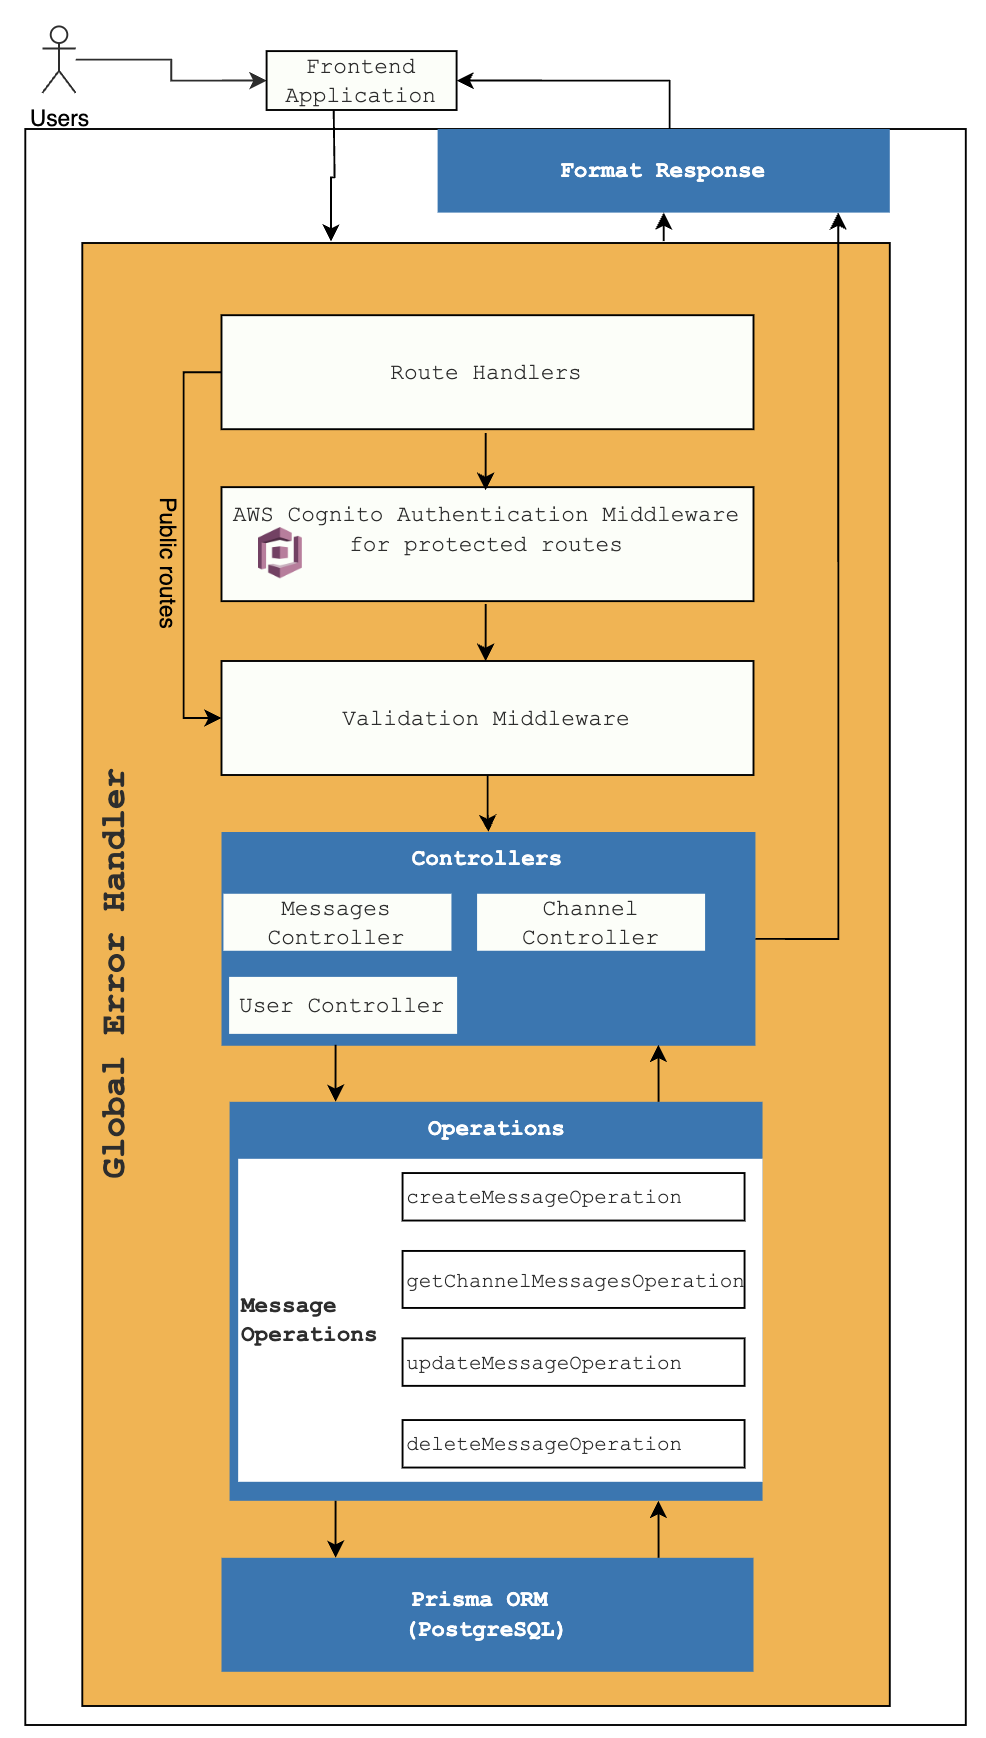
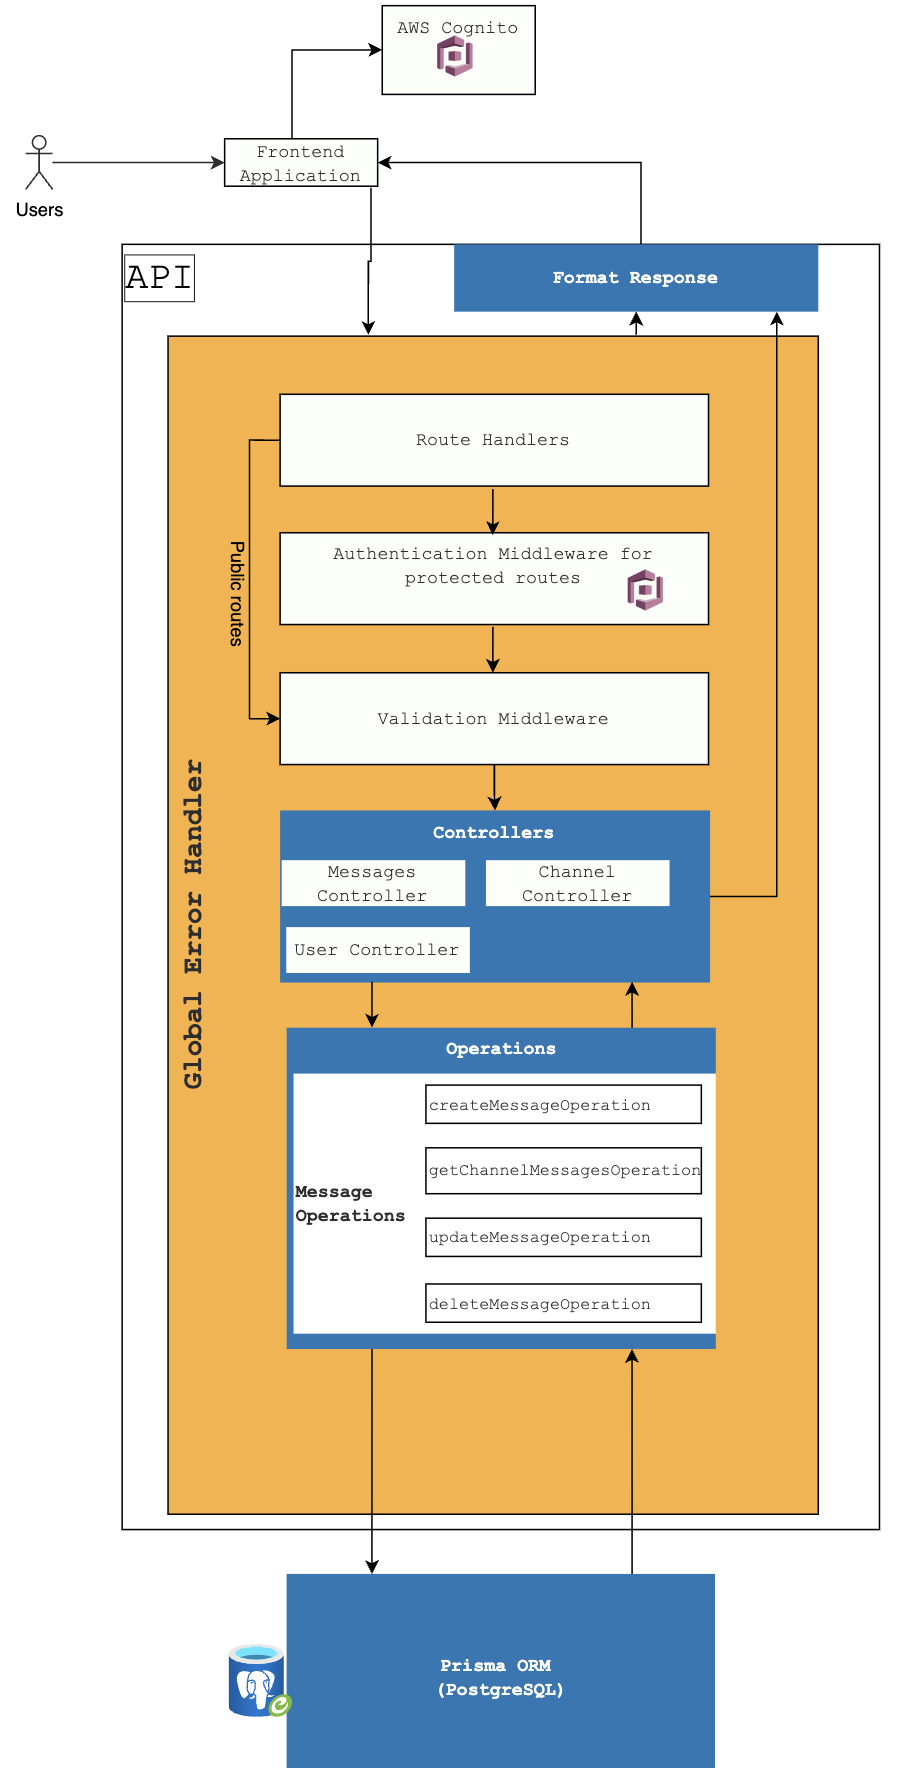
Update diagram and texts

diff --git a/README.md b/README.md
@@ -10,7 +10,7 @@ Let's dive into the application architecture!
 
 ## Section 1: Overview of the architecture
 
-This architecture ensures a robust and scalable foundation for our application.
+In this blog, we will primarily focus on the **Route Handlers, Controllers, Operations, and the Prisma ORM**. However, before diving into those specific areas, let's briefly explore the _overall_ architecture, which provides a robust and scalable foundation for our application
 
 ![Architecture Diagram](./Images/architectureDiagram.png)
 
@@ -69,7 +69,7 @@ The operations provide a clear separation between the controller and the databas
 
 ### 7. Global Error Handler (Middleware)
 
-The Global Error Handler is a middleware component that catches errors occurring at any step of the request lifecycle. It provides a centralized mechanism to handle and respond to errors consistently. By implementing this middleware, we can gracefully handle exceptions, log errors, and send appropriate error responses to clients.
+The Global Error Handler is a middleware component that catches errors occurring at any step of the request lifecycle. It provides a centralized mechanism to handle and respond to errors consistently. By implementing this middleware, we can gracefully handle exceptions, log errors, and send appropriate error responses to clients. Again we will explore this component in more detail in the next blog.
 
 ## Section 2: Building the Application
 
@@ -334,6 +334,7 @@ export const createMessage = async () => {
     }
 
     res.status(error.statusCode || 500).json(({ success: false, message: error.message }));
+    // I've done this many times in the past, and it's not fun
   }
 };
 
@@ -353,8 +354,8 @@ export const createMessageOperation = async (...) => {
   if (!isUserInChannel) {
       // declare and throw error manually
     const error = new Error(`User is not in the channel! Please join the channel first!`);
-    error.statusCode = 404;
     throw error;
+//    yes, I've forgotten to set the status code before :(
   }
 
   return await context.prismaClient.messages.create(...);
@@ -409,7 +410,7 @@ Here is the updated code that uses the `CustomError` class and the global error 
 export const createMessage = async () => {
     //...
   try {
-    const newMessage = await createMessageOperation(messagePayload, { prismaClient });
+    const newMessage = await createMessageOperation(...);
 
     res.json(({ success: true, data: newMessage }));
   } catch (error) {
@@ -452,7 +453,7 @@ app.use('/api/messages', messagesRoutes);
 // ...
 
 app.use('*', (req: Request, res: Response, next: NextFunction) => {
-  const error = new Error(`Route ${req.originalUrl} not found!!!`);
+  const error = new CustomError(`Route ${req.originalUrl} not found!!!`, 404);
   next(error);
 });
 
@@ -461,3 +462,5 @@ app.use(globalErrorHandler);
 
 export { app };
 ```
+
+In the above code, we added the global error handler middleware to end of the middleware chain. This middleware will handle all errors thrown or returned by our application.
